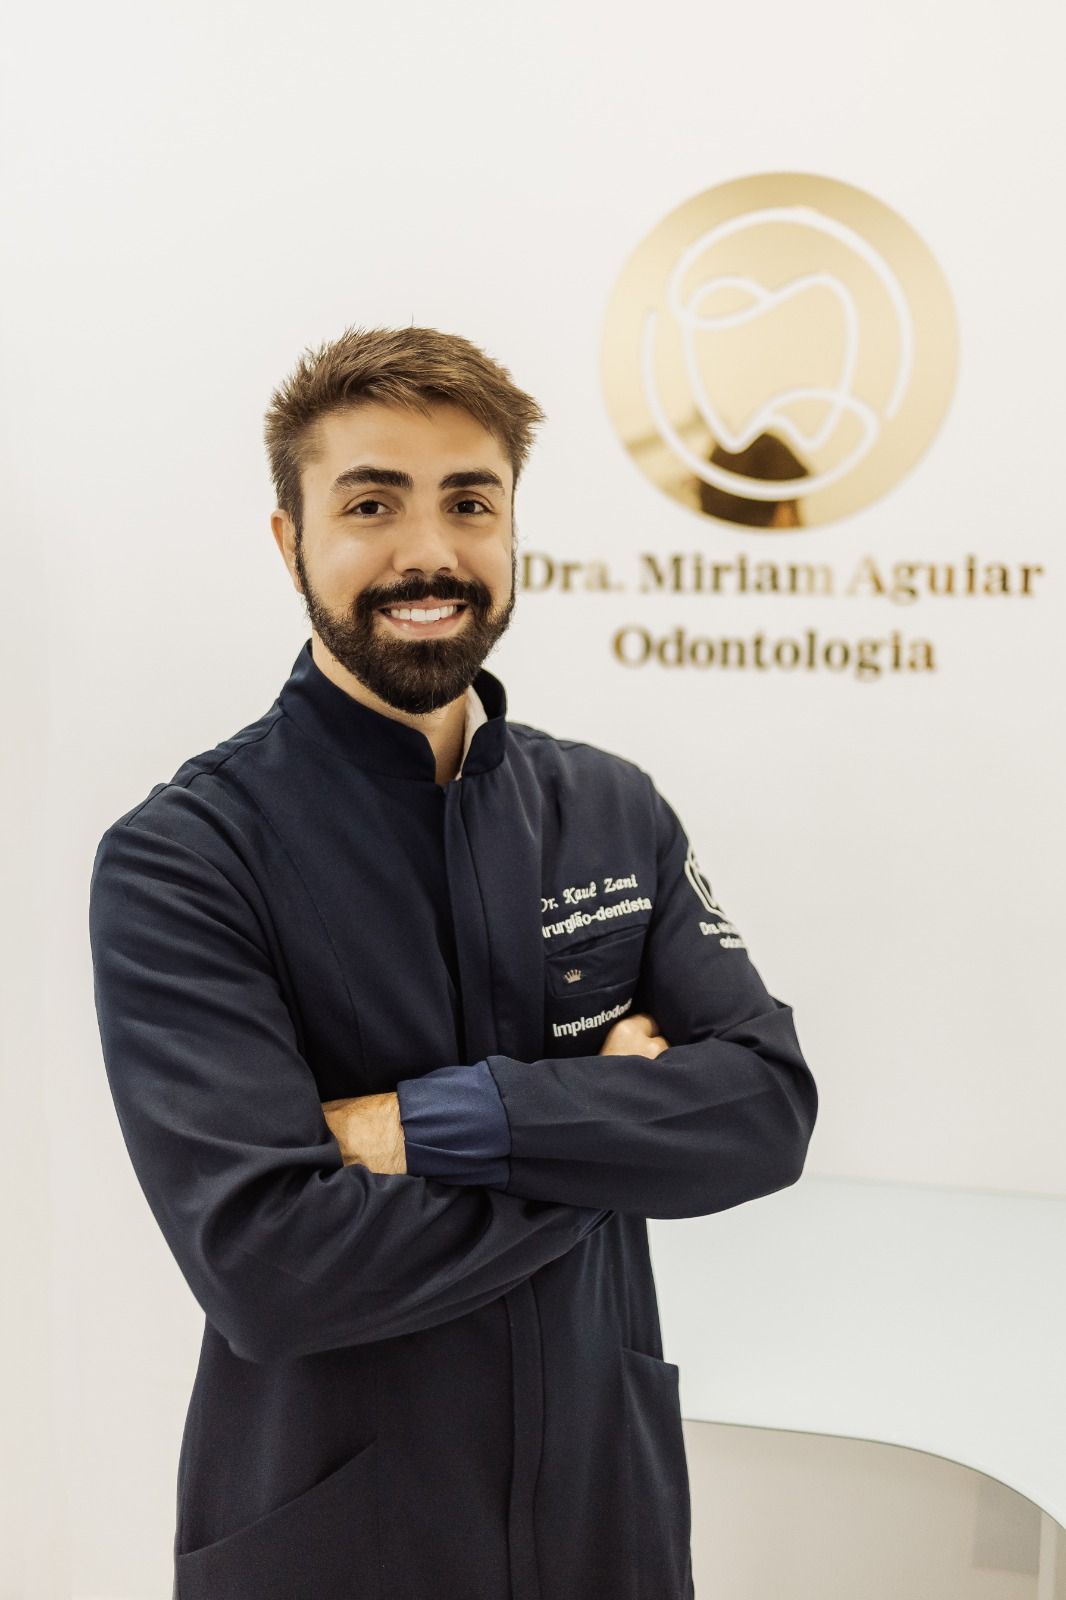
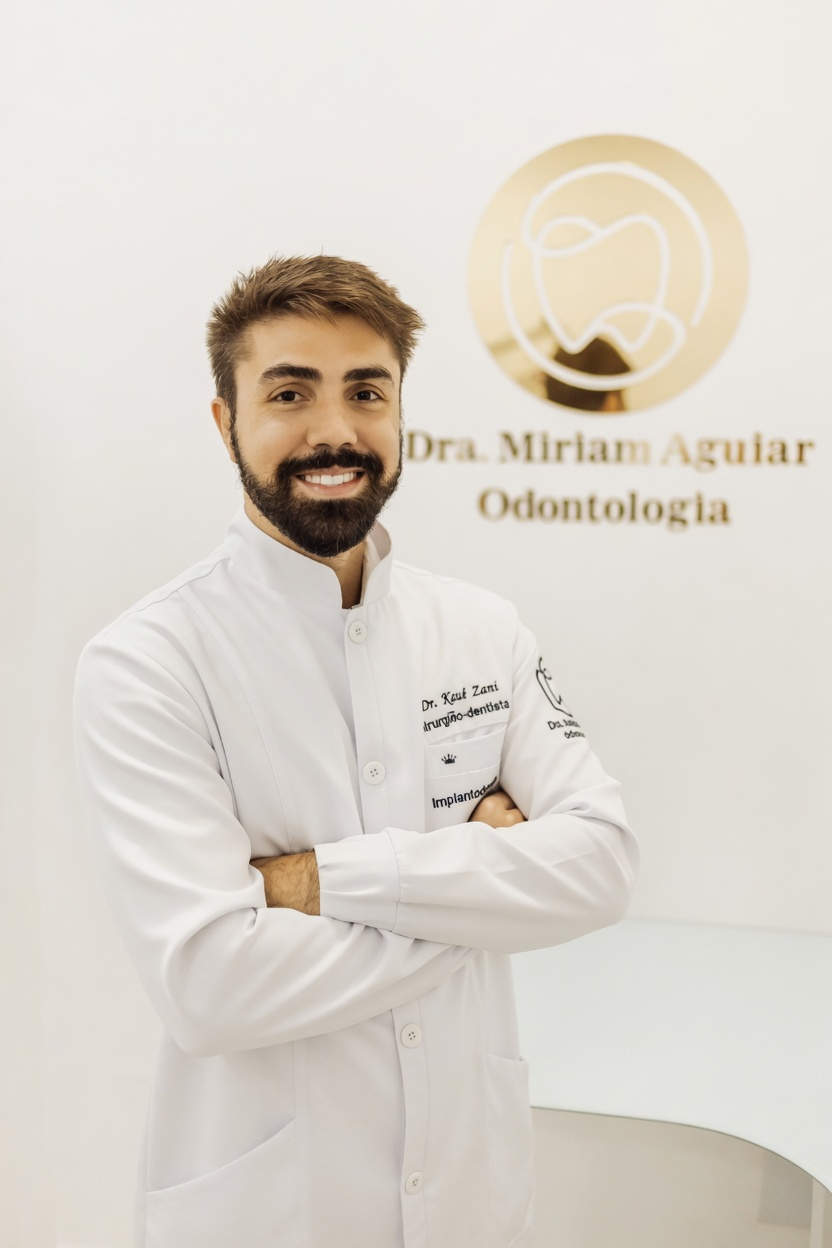
feat: polish team carousel cards

Changed region(s): [[0.0625, 0.375, 0.7812, 1.0]]

diff --git a/src/sections/TeamSection.tsx b/src/sections/TeamSection.tsx
@@ -85,7 +85,7 @@ export function TeamSection() {
 
   return (
     <section
-      className="scroll-mt-24 bg-brand-rose-400 py-12 text-white md:py-14 lg:min-h-[760px]"
+      className="scroll-mt-24 bg-brand-rose-400 py-12 text-white md:py-14 lg:min-h-[700px]"
       id="equipe"
     >
       <div className="relative mx-auto w-[min(1216px,calc(100vw-32px))]">
@@ -100,7 +100,7 @@ export function TeamSection() {
 
         <div className="relative mt-10 overflow-hidden md:mt-11">
           <div
-            className="flex transition-transform duration-500 ease-out"
+            className="flex items-stretch transition-transform duration-500 ease-out"
             style={{
               transform: `translateX(-${currentIndex * (100 / visibleCards)}%)`,
             }}
@@ -110,17 +110,17 @@ export function TeamSection() {
                 key={`${member.name}-${index}`}
                 className="min-w-full px-[9px] md:min-w-[50%] xl:min-w-[25%]"
               >
-                <div className="h-full rounded-[18px] border border-white/40 bg-[#fffaf7] p-[15px] text-brand-ink shadow-[0_18px_42px_rgba(120,72,79,0.14)]">
+                <div className="h-full rounded-[18px] bg-[#fffaf7] p-[12px] text-brand-ink">
                   <div className="relative overflow-hidden rounded-[14px] bg-[#f3ebe6]">
                     <img
                       src={member.image}
                       alt={member.name}
-                      className="h-[306px] w-full object-cover object-top brightness-[0.94] contrast-[1.06] saturate-[0.92]"
+                      className="h-[236px] w-full object-cover object-top brightness-[0.94] contrast-[1.06] saturate-[0.92] md:h-[286px] xl:h-[306px]"
                     />
                     <div className="pointer-events-none absolute inset-0 bg-[linear-gradient(180deg,rgba(95,74,77,0.06),transparent_42%,rgba(95,74,77,0.08))]" />
                   </div>
 
-                  <div className="mt-[22px]">
+                  <div className="px-1 pb-3 pt-4">
                     <div className="flex items-center gap-2">
                       <img
                         src={teethIcon}
@@ -141,7 +141,7 @@ export function TeamSection() {
           </div>
 
           <button
-            className="absolute left-2 top-[230px] flex h-10 w-10 items-center justify-center rounded-full bg-white text-2xl leading-none text-brand-rose-500 shadow-[0_12px_24px_rgba(120,72,79,0.18)] transition duration-200 hover:-translate-y-0.5 hover:bg-[#fff4f1] hover:text-[#bd797d] active:translate-y-0 active:bg-[#f4dfdc] md:left-5"
+            className="absolute left-0 top-[110px] flex h-10 w-10 items-center justify-center rounded-full bg-white text-2xl leading-none text-brand-rose-500 shadow-[0_12px_24px_rgba(120,72,79,0.18)] transition duration-200 hover:-translate-y-0.5 hover:bg-[#fff4f1] hover:text-[#bd797d] active:translate-y-0 active:bg-[#f4dfdc] md:left-4 md:top-[135px] xl:top-[145px]"
             aria-label="Equipe anterior"
             type="button"
             onClick={previousTeam}
@@ -149,7 +149,7 @@ export function TeamSection() {
             ‹
           </button>
           <button
-            className="absolute right-2 top-[230px] flex h-10 w-10 items-center justify-center rounded-full bg-white text-2xl leading-none text-brand-rose-500 shadow-[0_12px_24px_rgba(120,72,79,0.18)] transition duration-200 hover:-translate-y-0.5 hover:bg-[#fff4f1] hover:text-[#bd797d] active:translate-y-0 active:bg-[#f4dfdc] md:right-5"
+            className="absolute right-0 top-[110px] flex h-10 w-10 items-center justify-center rounded-full bg-white text-2xl leading-none text-brand-rose-500 shadow-[0_12px_24px_rgba(120,72,79,0.18)] transition duration-200 hover:-translate-y-0.5 hover:bg-[#fff4f1] hover:text-[#bd797d] active:translate-y-0 active:bg-[#f4dfdc] md:right-4 md:top-[135px] xl:top-[145px]"
             aria-label="Próxima equipe"
             type="button"
             onClick={nextTeam}
